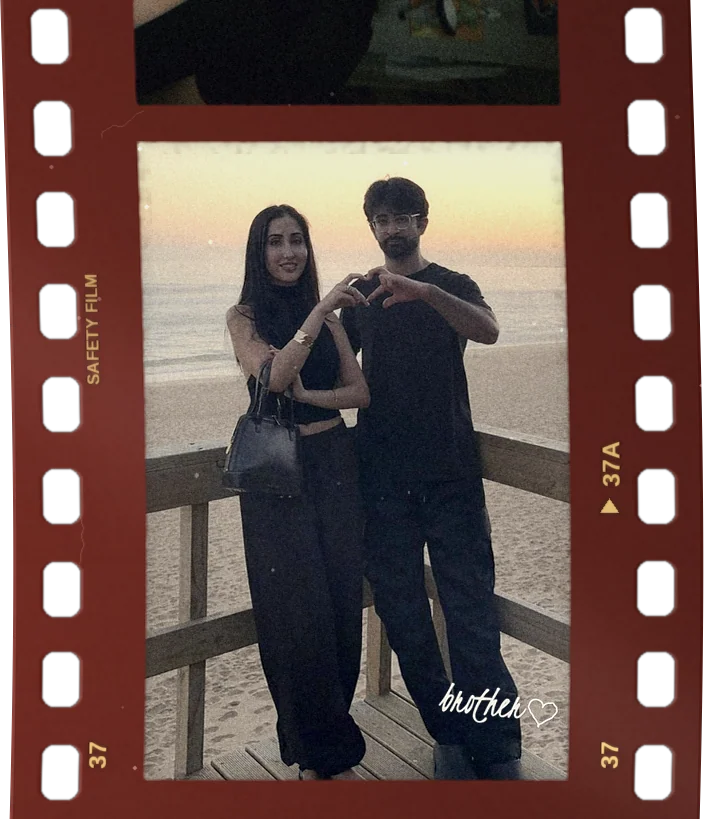
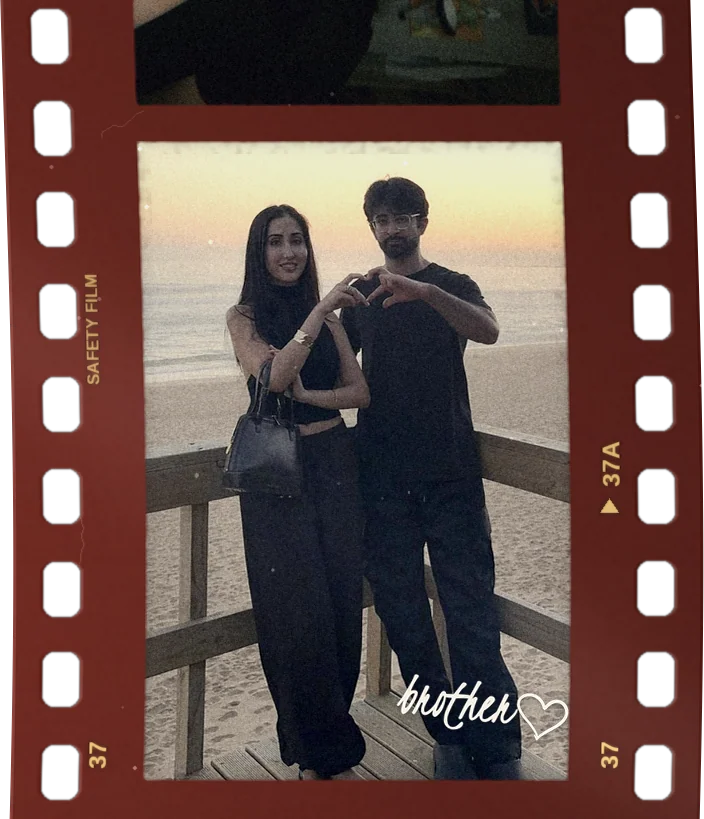
Hand-drawn hearts, bigger colour hug photo, ranking order and subtitle, graph removed, real email and LinkedIn links, CV removed
Claude-Session: https://claude.ai/code/session_019cHY5kFv81n3dVZ9DcXyGk

Changed region(s): [[0.5625, 0.8242, 0.8125, 0.9158]]

diff --git a/ranking.html b/ranking.html
@@ -4,7 +4,7 @@
 <meta charset="utf-8">
 <meta name="viewport" content="width=device-width, initial-scale=1">
 <title>Me at Every Age, Ranked · Peri</title>
-<meta name="description" content="From best to worst.">
+<meta name="description" content="In descending order.">
 <meta name="theme-color" content="#f2eee7">
 <link rel="preconnect" href="https://fonts.googleapis.com">
 <link rel="preconnect" href="https://fonts.gstatic.com" crossorigin>
@@ -18,18 +18,18 @@
   <section class="pt">
   <p class="folio cap mu">04</p>
   <h1 class="long" aria-label="Me at Every Age, Ranked"><span class="ln" aria-hidden="true"><span>Me at Every</span></span><span class="ln" aria-hidden="true"><span>Age, Ranked</span></span></h1>
-  <p class="stand fd">From best to worst.</p>
+  <p class="stand fd">In descending order.</p>
   </section>
   <section class="ranks">
     <div class="plates" aria-hidden="true"><figure class="rv"><img src="assets/img/g/rank-cover.jpg" alt="" loading="lazy"></figure><figure class="rv"><img src="assets/img/n/kid-2.jpg" alt="" loading="lazy"></figure></div>
     <ol class="rank-list stag">
       <li style="--i:1"><span class="pos type">01</span><span class="age">0 years old</span></li>
-      <li style="--i:2"><span class="pos type">02</span><span class="age">5 years old</span></li>
+      <li style="--i:2"><span class="pos type">02</span><span class="age">4 years old</span></li>
       <li style="--i:3"><span class="pos type">03</span><span class="age">28 years old</span></li>
-      <li style="--i:4"><span class="pos type">04</span><span class="age">1 year old</span></li>
-      <li style="--i:5"><span class="pos type">05</span><span class="age">2 years old</span></li>
-      <li style="--i:6"><span class="pos type">06</span><span class="age">3 years old</span></li>
-      <li style="--i:7"><span class="pos type">07</span><span class="age">4 years old</span></li>
+      <li style="--i:4"><span class="pos type">04</span><span class="age">3 years old</span></li>
+      <li style="--i:5"><span class="pos type">05</span><span class="age">5 years old</span></li>
+      <li style="--i:6"><span class="pos type">06</span><span class="age">2 years old</span></li>
+      <li style="--i:7"><span class="pos type">07</span><span class="age">1 year old</span></li>
       <li style="--i:8"><span class="pos type">08</span><span class="age">6 years old</span></li>
       <li style="--i:9"><span class="pos type">09</span><span class="age">7 years old</span></li>
       <li style="--i:10"><span class="pos type">10</span><span class="age">8 years old</span></li>
@@ -52,19 +52,11 @@
       <li style="--i:27"><span class="pos type">27</span><span class="age">22 years old</span></li>
       <li style="--i:28"><span class="pos type">28</span><span class="age">21 years old</span></li>
       <li style="--i:29"><span class="pos type">29</span><span class="age">20 years old</span></li>
-    </ol>
-    <div class="plot">
-      <p class="pm cap">By age</p>
-      <svg class="chart" viewBox="0 0 560 316" role="img" aria-label="The same ranking plotted by age">
-        <path class="axis" d="M34 8 V274 H556"/>
-        <path class="ln" pathLength="1" d="M34.0 14.0 L52.4 41.4 L70.9 50.6 L89.3 59.7 L107.7 68.9 L126.1 23.1 L144.6 78.0 L163.0 87.1 L181.4 96.3 L199.9 105.4 L218.3 132.9 L236.7 142.0 L255.1 151.1 L273.6 178.6 L292.0 187.7 L310.4 196.9 L328.9 169.4 L347.3 160.3 L365.7 123.7 L384.1 114.6 L402.6 270.0 L421.0 260.9 L439.4 251.7 L457.9 242.6 L476.3 233.4 L494.7 224.3 L513.1 215.1 L531.6 206.0 L550.0 32.3"/><circle cx="34.0" cy="14.0" r="2.4"/><circle cx="52.4" cy="41.4" r="2.4"/><circle cx="70.9" cy="50.6" r="2.4"/><circle cx="89.3" cy="59.7" r="2.4"/><circle cx="107.7" cy="68.9" r="2.4"/><circle cx="126.1" cy="23.1" r="2.4"/><circle cx="144.6" cy="78.0" r="2.4"/><circle cx="163.0" cy="87.1" r="2.4"/><circle cx="181.4" cy="96.3" r="2.4"/><circle cx="199.9" cy="105.4" r="2.4"/><circle cx="218.3" cy="132.9" r="2.4"/><circle cx="236.7" cy="142.0" r="2.4"/><circle cx="255.1" cy="151.1" r="2.4"/><circle cx="273.6" cy="178.6" r="2.4"/><circle cx="292.0" cy="187.7" r="2.4"/><circle cx="310.4" cy="196.9" r="2.4"/><circle cx="328.9" cy="169.4" r="2.4"/><circle cx="347.3" cy="160.3" r="2.4"/><circle cx="365.7" cy="123.7" r="2.4"/><circle cx="384.1" cy="114.6" r="2.4"/><circle cx="402.6" cy="270.0" r="2.4"/><circle cx="421.0" cy="260.9" r="2.4"/><circle cx="439.4" cy="251.7" r="2.4"/><circle cx="457.9" cy="242.6" r="2.4"/><circle cx="476.3" cy="233.4" r="2.4"/><circle cx="494.7" cy="224.3" r="2.4"/><circle cx="513.1" cy="215.1" r="2.4"/><circle cx="531.6" cy="206.0" r="2.4"/><circle cx="550.0" cy="32.3" r="2.4"/>
-        <g class="ticks"><text x="34.0" y="292">0</text><text x="126.1" y="292">5</text><text x="218.3" y="292">10</text><text x="310.4" y="292">15</text><text x="402.6" y="292">20</text><text x="494.7" y="292">25</text><text x="550.0" y="292">28</text><text x="24" y="17.0" class="yt">1st</text><text x="24" y="99.3" class="yt">10th</text><text x="24" y="190.7" class="yt">20th</text><text x="24" y="273.0" class="yt">29th</text><text x="556" y="312" class="yt">age</text></g>
-      </svg>
-    </div>
+</ol>
   </section>
   <section class="hello">
     <p class="hi" aria-hidden="true">say hello</p>
-    <p class="links cap fd"><a href="mailto:you@example.com">Email</a><a href="https://www.linkedin.com/">LinkedIn</a><a href="#">CV</a></p>
+    <p class="links cap fd"><a href="mailto:perisadigh21@gmail.com">Email</a><a href="https://www.linkedin.com/in/perisadigh/" target="_blank" rel="noopener">LinkedIn</a></p>
   </section>
   <p class="colophon cap"><span>&copy; <span data-year>2026</span> Peri</span><a href="#top">Back to top</a></p>
 </main>

diff --git a/things-i-love.html b/things-i-love.html
@@ -68,10 +68,10 @@
   <figure class="xf" data-lightbox="assets/img/n/xb/x08.webp" data-sp="0.04" style="left:38vw;top:80vw;width:19vw;--r:1deg;z-index:4"><img loading="lazy" src="assets/img/n/x/x08.webp" alt="Peri and a friend, close up" width="560" height="665"></figure>
   <figure class="xf" data-lightbox="assets/img/n/xb/x09.webp" data-sp="-0.03" style="left:60vw;top:82vw;width:22vw;--r:-2deg;z-index:5"><img loading="lazy" src="assets/img/n/x/x09.webp" alt="Peri with friends on a boat" width="560" height="665"></figure>
   <figure class="xf" data-lightbox="assets/img/n/xb/x10.webp" data-sp="0.05" style="left:85vw;top:89vw;width:11.5vw;--r:2.5deg;z-index:1"><img loading="lazy" src="assets/img/n/x/x10.webp" alt="A friend holding a kitten" width="560" height="665"></figure>
-  <figure class="xf" data-lightbox="assets/img/n/xb/x11.webp" data-sp="-0.02" style="left:6vw;top:100vw;width:15vw;--r:1deg;z-index:2"><img loading="lazy" src="assets/img/n/x/x11.webp" alt="Peri and a friend hugging in a garden" width="560" height="665"></figure>
-  <figure class="xf" data-lightbox="assets/img/n/xb/x12.webp" data-sp="0.04" style="left:22vw;top:123vw;width:36.6vw;--r:-1deg;z-index:3"><img loading="lazy" src="assets/img/n/x/x12.webp" alt="Peri and a friend by the sea" width="665" height="560"></figure>
+  <figure class="xf" data-lightbox="assets/img/n/xb/x11.webp" data-sp="-0.02" style="left:6vw;top:99vw;width:24vw;--r:1deg;z-index:2"><img loading="lazy" src="assets/img/n/x/x11.webp" alt="Peri and a friend hugging in a garden" width="560" height="665"></figure>
+  <figure class="xf" data-lightbox="assets/img/n/xb/x12.webp" data-sp="0.04" style="left:30vw;top:129vw;width:36.6vw;--r:-1deg;z-index:3"><img loading="lazy" src="assets/img/n/x/x12.webp" alt="Peri and a friend by the sea" width="665" height="560"></figure>
   <figure class="xf" data-lightbox="assets/img/n/xb/x13.webp" data-sp="-0.03" style="left:68vw;top:112vw;width:21vw;--r:2deg;z-index:4"><img loading="lazy" src="assets/img/n/x/x13.webp" alt="A polaroid held up in front of flowers" width="560" height="665"></figure>
-  <figure class="xf" data-lightbox="assets/img/n/xb/x14.webp" data-sp="0.05" style="left:62vw;top:141vw;width:20vw;--r:-2deg;z-index:5"><img loading="lazy" src="assets/img/n/x/x14.webp" alt="Peri with her dog" width="560" height="665"></figure>
+  <figure class="xf" data-lightbox="assets/img/n/xb/x14.webp" data-sp="0.05" style="left:70vw;top:141vw;width:20vw;--r:-2deg;z-index:5"><img loading="lazy" src="assets/img/n/x/x14.webp" alt="Peri with her dog" width="560" height="665"></figure>
   <figure class="xf" data-lightbox="assets/img/n/xb/x15.webp" data-sp="-0.02" style="left:44vw;top:102vw;width:14vw;--r:2deg;z-index:1"><img loading="lazy" src="assets/img/n/x/x15.webp" alt="A small dog squinting in the sun" width="560" height="665"></figure>
   <figure class="xf" data-lightbox="assets/img/n/xb/x16.webp" data-sp="0.04" style="left:77vw;top:58vw;width:18vw;--r:-1deg;z-index:2"><img loading="lazy" src="assets/img/n/x/x16.webp" alt="Two dogs on a blanket" width="560" height="665"></figure>
   <figure class="xf" data-lightbox="assets/img/n/xb/x17.webp" data-sp="-0.03" style="left:4vw;top:151vw;width:16vw;--r:1.5deg;z-index:3"><img loading="lazy" src="assets/img/n/x/x17.webp" alt="A schnauzer asleep on a rug" width="560" height="665"></figure>
@@ -79,7 +79,7 @@
   </section>
   <section class="hello">
     <p class="hi" aria-hidden="true">say hello</p>
-    <p class="links cap fd"><a href="mailto:you@example.com">Email</a><a href="https://www.linkedin.com/">LinkedIn</a><a href="#">CV</a></p>
+    <p class="links cap fd"><a href="mailto:perisadigh21@gmail.com">Email</a><a href="https://www.linkedin.com/in/perisadigh/" target="_blank" rel="noopener">LinkedIn</a></p>
   </section>
   <p class="colophon cap"><span>&copy; <span data-year>2026</span> Peri</span><a href="#top">Back to top</a></p>
 </main>

diff --git a/index.html b/index.html
@@ -173,7 +173,7 @@ linear-gradient(var(--k),var(--k)) 100% calc(100% - 26px)/16px 1px no-repeat,lin
 
 <section class="spread s4">
   <p class="hi">say hello</p>
-  <p class="links cap fd"><a href="mailto:you@example.com">Email</a><span>|</span><a href="https://www.linkedin.com/">LinkedIn</a><span>|</span><a href="#">CV</a></p>
+  <p class="links cap fd"><a href="mailto:perisadigh21@gmail.com">Email</a><span>|</span><a href="https://www.linkedin.com/in/perisadigh/" target="_blank" rel="noopener">LinkedIn</a></p>
   <p class="fine cap mu">&copy; <span data-year>2026</span> Peri</p>
 </section>
 <script>

diff --git a/work.html b/work.html
@@ -76,7 +76,7 @@
   </section>
   <section class="hello">
     <p class="hi" aria-hidden="true">say hello</p>
-    <p class="links cap fd"><a href="mailto:you@example.com">Email</a><a href="https://www.linkedin.com/">LinkedIn</a><a href="#">CV</a></p>
+    <p class="links cap fd"><a href="mailto:perisadigh21@gmail.com">Email</a><a href="https://www.linkedin.com/in/perisadigh/" target="_blank" rel="noopener">LinkedIn</a></p>
   </section>
   <p class="colophon cap"><span>&copy; <span data-year>2026</span> Peri</span><a href="#top">Back to top</a></p>
 </main>
